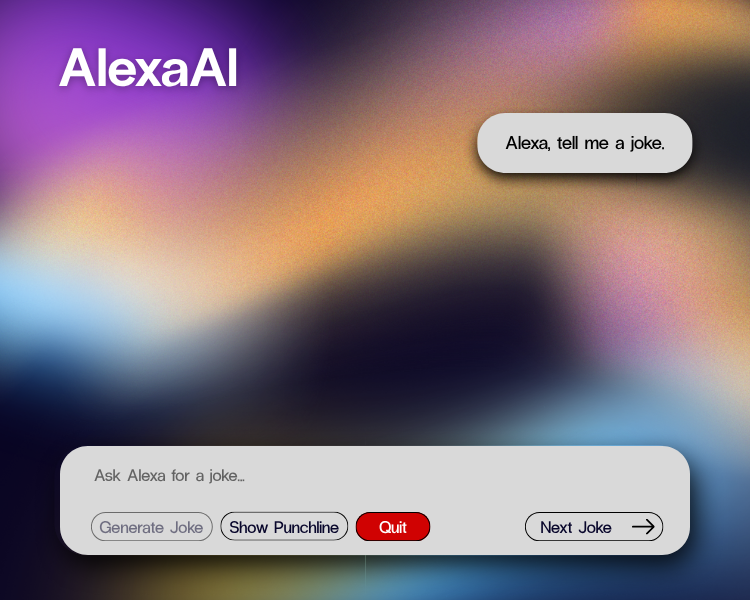
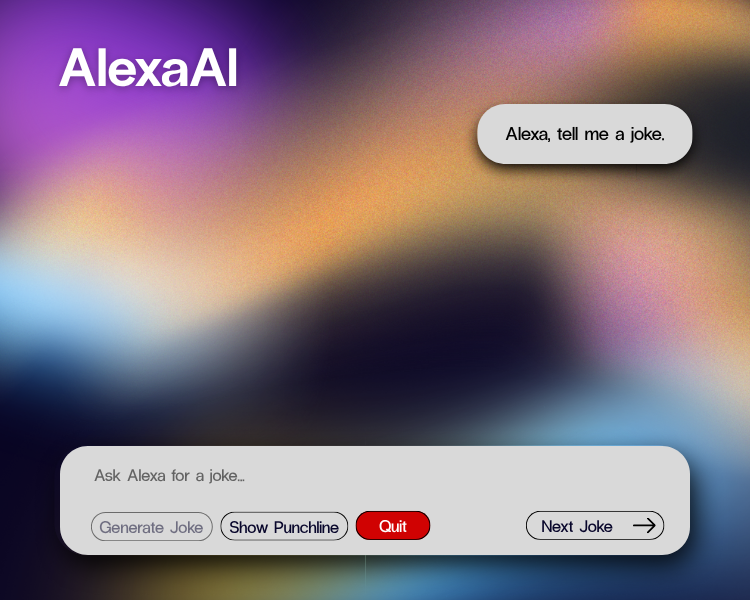
ex2 update 18
- edited coordinated for buttons
- replaced bg images
- added thinking animation for bg5

Changed region(s): [[0.6133, 0.15, 0.92, 0.33], [0.7053, 0.84, 0.8893, 0.9], [0.46, 0.84, 0.5827, 0.9]]

diff --git a/Assessment 1 - Skills Portfolio/Exercise 2 - Alexa Tell Me a Joke/AlexaTellMeAJoke.py b/Assessment 1 - Skills Portfolio/Exercise 2 - Alexa Tell Me a Joke/AlexaTellMeAJoke.py
@@ -125,7 +125,7 @@ class AlexaAI:
                                activebackground='#d9d9d9')
         self.quit_btn.place(x=351, y=361)
         
-        # frame 3
+        # frame 3 (bg3)
         self.thinking_lbl = Label(self.frames['bg3'], text='',
                                   font=self.thinking_font,
                                   bg='#d9d9d9', fg='black')
@@ -142,33 +142,39 @@ class AlexaAI:
                                     bg='#d9d9d9', fg='black', 
                                     command=self.show_punchline, bd=0, highlightthickness=0,
                                     activebackground='#d9d9d9')
-        self.punchline_btn.place(x=150, y=600)
+        self.punchline_btn.place(x=220, y=509)
         
         self.next_btn = Button(self.frames['bg3'], image=self.next_img, 
                                     bg='#d9d9d9', fg='black', 
                                     command=self.next_joke, bd=0, highlightthickness=0,
                                     activebackground='#d9d9d9')
-        self.next_btn.place(x=450, y=600)
+        self.next_btn.place(x=525, y=509)
         
         self.quit_btn = Button(self.frames['bg3'], image=self.quit_img, 
                                     bg='#d9d9d9', fg='black', 
                                     command=self.root.destroy, bd=0, highlightthickness=0,
                                     activebackground='#d9d9d9')
-        self.quit_btn.place(x=250)
+        self.quit_btn.place(x=355, y=509)
         
-        # Frame 4 (bg4) - Loading before punchline (no UI elements)
+        # frame 4 (bg4) - Loading before punchline (no UI elements)
         self.joke_lbl_bg4 = Label(self.frames['bg4'], font=self.joke_font, 
                               wraplength=600, justify='center', bg='#d9d9d9', fg='black')
         self.joke_lbl_bg4.place(x=80, y=197)
         
-        # Frame 5 (bg5) - Punchline reveal (with joke still visible)
-        # Copy the joke label to bg5 so it remains visible
+        # frame 5 (bg5)
+        # copy the joke label to bg5 so it remains visible
         self.joke_lbl_bg5 = Label(self.frames['bg5'], font=self.joke_font, 
-                              wraplength=600, justify='center', bg='#d9d9d9', fg='black')
+                              wraplength=600, bg='#d9d9d9', fg='black')
         self.joke_lbl_bg5.place(x=80, y=197)
         
+        # thinking label for punchline animation in bg5
+        self.thinking_lbl_bg5 = Label(self.frames['bg5'], text='',
+                                      font=self.thinking_font,
+                                      bg='#d9d9d9', fg='black')
+        self.thinking_lbl_bg5.place(x=90, y=348)
+        
         self.punchline_lbl = Label(self.frames['bg5'], text='', font=self.joke_font, 
-                                   wraplength=600, justify='center', bg='#d9d9d9', fg='black')
+                                   wraplength=600, bg='#d9d9d9', fg='black')
         self.punchline_lbl.place(x=80, y=348)
         
         # Control buttons for frame 5
@@ -176,13 +182,13 @@ class AlexaAI:
                                     bg='#d9d9d9', fg='black', 
                                     command=self.next_joke, bd=0, highlightthickness=0,
                                     activebackground='#d9d9d9')
-        self.next_btn_bg5.place(relx=0.4, rely=0.85, anchor=CENTER, width=120, height=35)
+        self.next_btn_bg5.place(x=525, y=509)
         
         self.quit_btn_bg5 = Button(self.frames['bg5'], image=self.quit_img, 
                                     bg='#d9d9d9', fg='black', 
                                     command=self.root.destroy, bd=0, highlightthickness=0,
                                     activebackground='#d9d9d9')
-        self.quit_btn_bg5.place(relx=0.6, rely=0.85, anchor=CENTER, width=120, height=35)
+        self.quit_btn_bg5.place(x=355, y=509)
 
     def show_title_frame(self):
         self.title_frame.place(x=0, y=0, relwidth=1, relheight=1)
@@ -223,16 +229,16 @@ class AlexaAI:
         
         # start thinking animation
         self.thinking_dots = 0
-        self.animate_thinking()
+        self.animate_thinking_bg3()
         
-    def animate_thinking(self):
+    def animate_thinking_bg3(self):
         dots = '.' * (self.thinking_dots % 4)
         self.thinking_lbl.config(text=f'{dots}')
         self.thinking_dots += 1
 
         # animate for 2 seconds, then show joke
-        if self.thinking_dots <= 8:
-            self.root.after(250, self.animate_thinking)
+        if self.thinking_dots <= 8: # 8 cycles = 2 seconds
+            self.root.after(250, self.animate_thinking_bg3)
         else:
             self.show_joke_setup()
     
@@ -249,26 +255,53 @@ class AlexaAI:
              # set the joke in bg4 and bg5 so they will remain shown
             self.joke_lbl_bg4.config(text=joke_text + '?')
             self.joke_lbl_bg5.config(text=joke_text + '?')
+          
+            # show buttons in bg3
+            self.show_bg3_buttons()
             
-    def show_thinking_animation_bg5(self):
-        self.show_frame('bg5')
-        
-        # clear previous joke
-        self.punchline_lbl.config(text='')
-        
-        # start thinking animation
-        self.thinking_dots = 0
-        self.animate_thinking()
+    def hide_bg3_buttons(self):
+        self.punchline_btn.place_forget()
+        self.next_btn.place_forget()
+        self.quit_btn.place_forget()
+            
+    def show_bg3_buttons(self):
+        self.punchline_btn.place(x=220, y=509)
+        self.next_btn.place(x=525, y=509)
+        self.quit_btn.place(x=355, y=509)
     
     def show_punchline(self):
         # go to bg4 first
         self.show_frame('bg4')
         
         # after 2 seconds, go to bg5, thinking animation, and show punchline
-        self.thinking_lbl.forget()
-        self.reveal_punchline()
+        self.root.after(1000, self.show_thinking_animation_bg5)
+            
+    def show_thinking_animation_bg5(self):
+        self.show_frame('bg5')
+        
+        # clear previous joke
+        self.punchline_lbl.config(text='')
+        self.thinking_lbl_bg5.config(text='')
+        
+        # start thinking animation
+        self.thinking_dots = 0
+        self.animate_thinking_bg5()
+    
+    def animate_thinking_bg5(self):
+        dots = '.' * (self.thinking_dots % 4)
+        self.thinking_lbl_bg5.config(text=f'{dots}')
+        self.thinking_dots_bg5 += 1
+
+        # animate for 2 seconds, then show joke
+        if self.thinking_dots_bg5 <= 8: # 8 cycles = 2 seconds
+            self.root.after(250, self.animate_thinking_bg5)
+        else:
+            self.show_joke_setup()
         
     def reveal_punchline(self):
+        # hide thinking label before showing punchline
+        self.thinking_lbl_bg5.config(text='')
+        
         self.show_frame('bg5')
         if self.current_joke_index >= 0 and self.punchlines:
             punchline_text = self.punchlines[self.current_joke_index] # joke index will have the same index as punchline
@@ -283,3 +316,6 @@ def main():
     root= Tk()
     app = AlexaAI(root)
     root.mainloop()
+    
+if __name__ == '__main__':
+    main()
